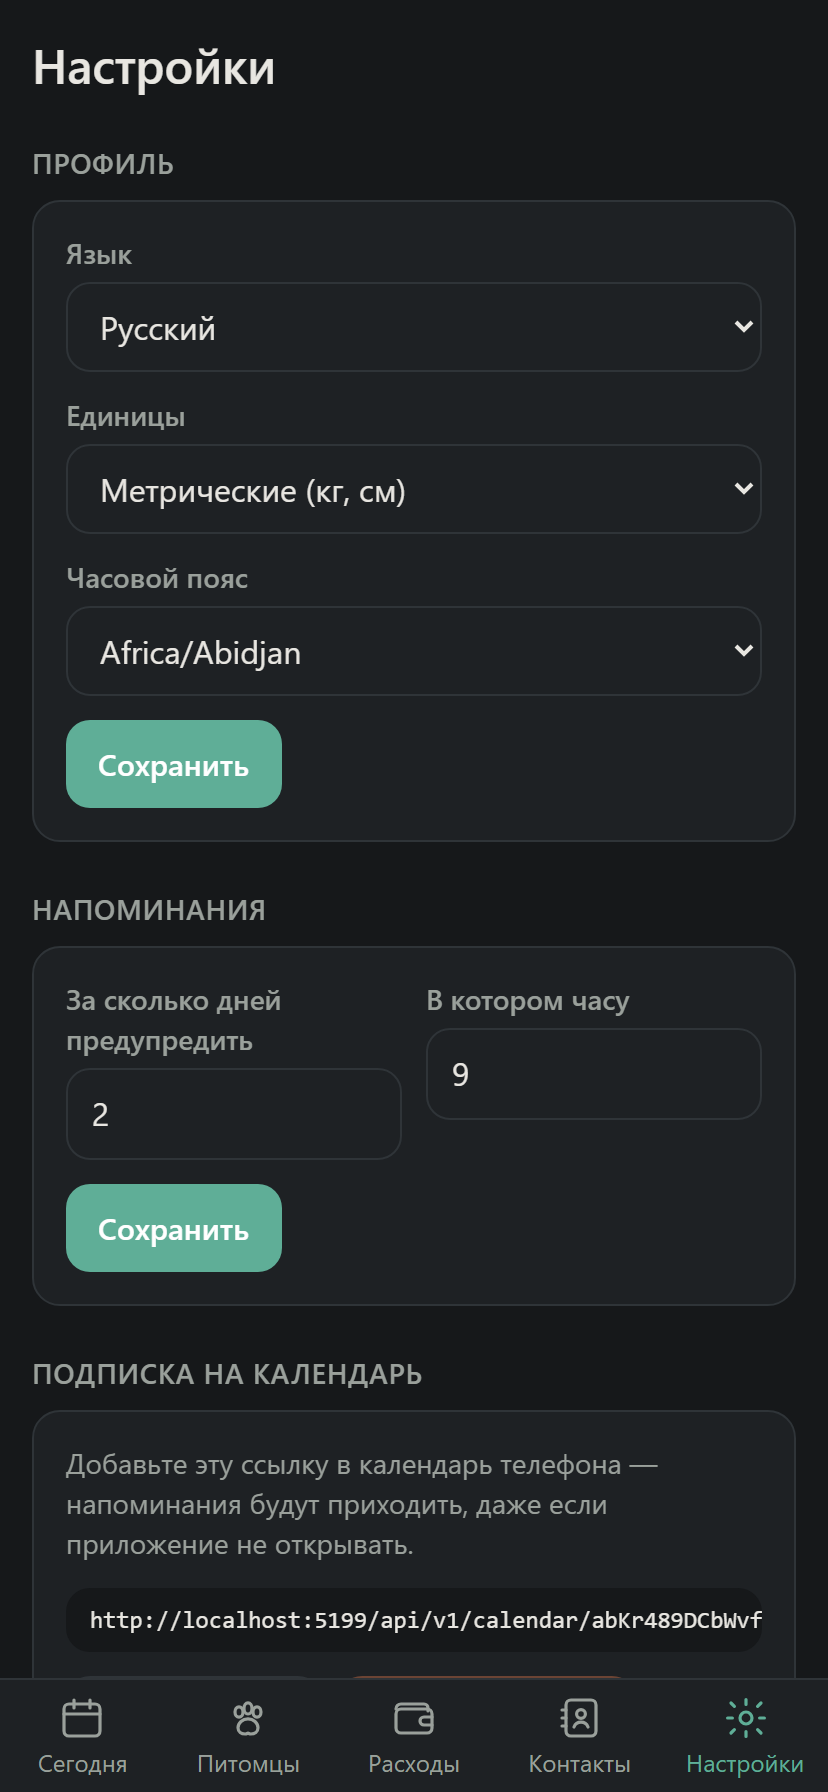
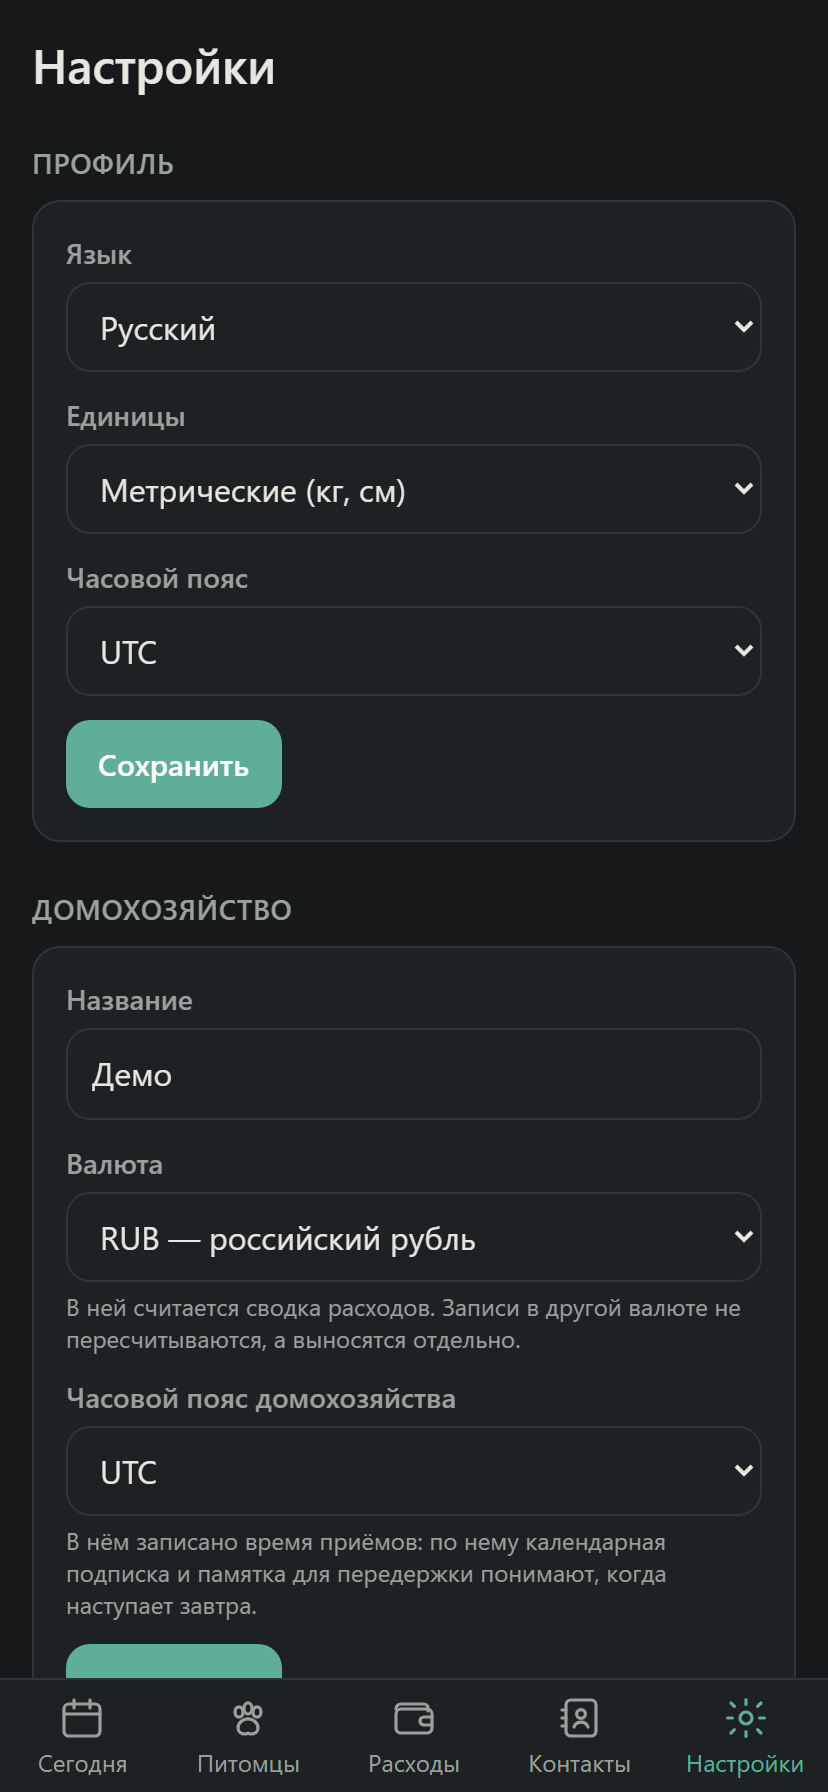
Add currency and household time zone to settings
The household already had a currency and a time zone; neither was settable.
The currency governs the expense summary, the time zone governs what the
calendar feed and the sitter link call tomorrow — both were silently stuck
on their defaults.

Changing the currency does not reinterpret earlier entries: money is never
converted, so roubles recorded before the change stay roubles and are shown
apart from the total.

Also fixes a picker that displayed a value it did not hold.
Intl.supportedValuesOf('timeZone') omits UTC, which is where every household
starts, so both zone selects showed Africa/Abidjan and saving the form would
have moved the household to Cote d'Ivoire.

And the capture tool's default output now follows COLOR_SCHEME: a dark run
without a path argument used to overwrite the light screenshots.

Claude-Session: https://claude.ai/code/session_01UPbQU9fPhnrhdN3YF2XwQb

diff --git a/apps/web/src/pages/SettingsPage.tsx b/apps/web/src/pages/SettingsPage.tsx
@@ -1,10 +1,10 @@
 import { startRegistration } from '@simplewebauthn/browser';
-import { type ReactNode, useState } from 'react';
+import { type ReactNode, useMemo, useState } from 'react';
 import { api } from '../api/client';
 import type { Passkey } from '../api/types';
 import { useAction, useResource } from '../app/hooks';
 import { useSession, useUser } from '../app/session';
-import { formatDate } from '../lib/format';
+import { formatDate, optionsIncluding } from '../lib/format';
 import { LOCALES, type MessageKey } from '../lib/i18n';
 import { NotificationsSection } from './NotificationsSection';
 import { SitterLinksSection } from './SitterLinksSection';
@@ -16,6 +16,9 @@ interface HouseholdDetail {
     name: string;
     reminderLeadDays: number;
     reminderHour: number;
+    timeZone: string;
+    currency: string;
+    foodLeadDays: number;
     calendarUrl: string;
   };
   role: string;
@@ -37,6 +40,7 @@ export function SettingsPage(): ReactNode {
 
       {detail.data && (
         <>
+          <HouseholdCard detail={detail.data} onSaved={detail.reload} />
           <RemindersCard detail={detail.data} onSaved={detail.reload} />
           <CalendarCard detail={detail.data} onRotated={detail.reload} />
           <MembersCard detail={detail.data} onChanged={detail.reload} />
@@ -95,8 +99,9 @@ function ProfileCard({ onSaved }: { onSaved: () => Promise<void> }): ReactNode {
     await onSaved();
   });
 
-  // The zones the browser knows, so nothing unresolvable can be chosen.
-  const zones = Intl.supportedValuesOf('timeZone');
+  // The zones the browser knows, plus whatever is stored: the list omits UTC, and a select
+  // that cannot show its own value is a select that changes it.
+  const zones = optionsIncluding(Intl.supportedValuesOf('timeZone'), user.timeZone);
 
   return (
     <section>
@@ -140,6 +145,89 @@ function ProfileCard({ onSaved }: { onSaved: () => Promise<void> }): ReactNode {
   );
 }
 
+/**
+ * What belongs to the household rather than to the person reading the screen.
+ *
+ * The time zone here is not the same setting as the one on the profile above, and the
+ * difference matters: the profile's decides what "today" means on this screen, while this
+ * one is what the calendar feed and the sitter notes are read in — neither of which has
+ * anybody signed in to ask.
+ */
+function HouseholdCard({
+  detail,
+  onSaved,
+}: {
+  detail: HouseholdDetail;
+  onSaved: () => void;
+}): ReactNode {
+  const { t, locale } = useSession();
+  const [name, setName] = useState(detail.household.name);
+  const [currency, setCurrency] = useState(detail.household.currency);
+  const [timeZone, setTimeZone] = useState(detail.household.timeZone);
+
+  const save = useAction(async () => {
+    await api.patch(`/households/${detail.household.id}`, { name, currency, timeZone });
+    onSaved();
+  });
+
+  // Every code the browser knows, named in the reader's language, rather than a short list
+  // that would be wrong for whoever lives somewhere I did not think of.
+  const currencies = useMemo(() => {
+    const names = new Intl.DisplayNames([locale === 'ru' ? 'ru' : 'en'], { type: 'currency' });
+    return optionsIncluding(Intl.supportedValuesOf('currency'), detail.household.currency)
+      .map((code) => ({ code, label: `${code} — ${names.of(code) ?? code}` }))
+      .sort((a, b) => a.label.localeCompare(b.label));
+  }, [locale, detail.household.currency]);
+
+  const zones = useMemo(
+    () => optionsIncluding(Intl.supportedValuesOf('timeZone'), detail.household.timeZone),
+    [detail.household.timeZone],
+  );
+
+  return (
+    <section>
+      <SectionTitle>{t('settings.household')}</SectionTitle>
+      <Card className="space-y-3">
+        <Field label={t('settings.householdName')}>
+          <Input value={name} onChange={(e) => setName(e.target.value)} />
+        </Field>
+
+        <Field
+          label={t('settings.currency')}
+          hint={t('settings.currencyHint')}
+          error={save.error?.fieldError('currency')}
+        >
+          <Select value={currency} onChange={(e) => setCurrency(e.target.value)}>
+            {currencies.map((entry) => (
+              <option key={entry.code} value={entry.code}>
+                {entry.label}
+              </option>
+            ))}
+          </Select>
+        </Field>
+
+        <Field
+          label={t('settings.householdTimeZone')}
+          hint={t('settings.householdTimeZoneHint')}
+          error={save.error?.fieldError('timeZone')}
+        >
+          <Select value={timeZone} onChange={(e) => setTimeZone(e.target.value)}>
+            {zones.map((zone) => (
+              <option key={zone} value={zone}>
+                {zone}
+              </option>
+            ))}
+          </Select>
+        </Field>
+
+        <Button disabled={save.pending} onClick={() => void save.run()}>
+          {t('action.save')}
+        </Button>
+      </Card>
+    </section>
+  );
+}
+
 function RemindersCard({
   detail,
   onSaved,
@@ -150,9 +238,10 @@ function RemindersCard({
   const { t } = useSession();
   const [leadDays, setLeadDays] = useState(detail.household.reminderLeadDays);
   const [hour, setHour] = useState(detail.household.reminderHour);
+  const [foodLeadDays, setFoodLeadDays] = useState(detail.household.foodLeadDays);
 
   const save = useAction(async () => {
-    await api.patch(`/households/${detail.household.id}`, { leadDays, hour });
+    await api.patch(`/households/${detail.household.id}`, { leadDays, hour, foodLeadDays });
     onSaved();
   });
 
@@ -180,6 +269,16 @@ function RemindersCard({
             />
           </Field>
         </div>
+
+        <Field label={t('settings.foodLeadDays')}>
+          <Input
+            type="number"
+            min={0}
+            max={60}
+            value={foodLeadDays}
+            onChange={(e) => setFoodLeadDays(Number(e.target.value))}
+          />
+        </Field>
 
         <Button disabled={save.pending} onClick={() => void save.run()}>
           {t('action.save')}

diff --git a/apps/api/tests/money.test.ts b/apps/api/tests/money.test.ts
@@ -182,6 +182,46 @@ describe('expenses', () => {
     expect(one.json().summary.total).toBe(500);
   });
 
+  it('totals in the household currency once it is changed', async () => {
+    await asUser(test, cookie, {
+      method: 'PATCH',
+      url: `/api/v1/households/${householdId}`,
+      payload: { currency: 'eur' },
+    });
+
+    // An expense entered without naming a currency takes the household's.
+    await post('/expenses', { category: 'food', amount: 40, spentOn: '2026-05-01' });
+
+    const response = await get('/expenses?from=2026-01-01&to=2026-12-31');
+    expect(response.json().summary.currency).toBe('EUR');
+    expect(response.json().summary.total).toBe(40);
+    expect(response.json().summary.excluded).toEqual([]);
+  });
+
+  it('sets aside what was entered before the currency changed', async () => {
+    await post('/expenses', { category: 'food', amount: 1000, spentOn: '2026-05-01' });
+    await asUser(test, cookie, {
+      method: 'PATCH',
+      url: `/api/v1/households/${householdId}`,
+      payload: { currency: 'EUR' },
+    });
+
+    const response = await get('/expenses?from=2026-01-01&to=2026-12-31');
+    // Nothing is silently reinterpreted: the old roubles are still roubles.
+    expect(response.json().summary.total).toBe(0);
+    expect(response.json().summary.excluded).toHaveLength(1);
+    expect(response.json().summary.excluded[0].currency).toBe('RUB');
+  });
+
+  it('refuses something that is not a currency code', async () => {
+    const response = await asUser(test, cookie, {
+      method: 'PATCH',
+      url: `/api/v1/households/${householdId}`,
+      payload: { currency: 'roubles' },
+    });
+    expect(response.statusCode).toBe(422);
+  });
+
   it('keeps another household out of the total', async () => {
     const stranger = await signUp(test, { email: 'stranger@example.com' });
     await asUser(test, stranger.cookie, {

diff --git a/apps/web/src/lib/i18n.ts b/apps/web/src/lib/i18n.ts
@@ -379,6 +379,13 @@ const ru = {
   'settings.timeZone': 'Часовой пояс',
   'settings.language': 'Язык',
   'settings.household': 'Домохозяйство',
+  'settings.householdName': 'Название',
+  'settings.currency': 'Валюта',
+  'settings.currencyHint':
+    'В ней считается сводка расходов. Записи в другой валюте не пересчитываются, а выносятся отдельно.',
+  'settings.householdTimeZone': 'Часовой пояс домохозяйства',
+  'settings.householdTimeZoneHint':
+    'В нём записано время приёмов: по нему календарная подписка и памятка для передержки понимают, когда наступает завтра.',
   'settings.members': 'Кто имеет доступ',
   'settings.addMember': 'Добавить по почте',
   'settings.role.owner': 'Владелец',
@@ -787,6 +794,13 @@ const en: Record<MessageKey, string> = {
   'settings.timeZone': 'Time zone',
   'settings.language': 'Language',
   'settings.household': 'Household',
+  'settings.householdName': 'Name',
+  'settings.currency': 'Currency',
+  'settings.currencyHint':
+    'The expense summary totals in it. Anything recorded in another currency is set aside rather than converted.',
+  'settings.householdTimeZone': 'Household time zone',
+  'settings.householdTimeZoneHint':
+    'Appointment times are written in it, and the calendar feed and the sitter notes use it to decide when tomorrow starts.',
   'settings.members': 'Who has access',
   'settings.addMember': 'Add by email',
   'settings.role.owner': 'Owner',

diff --git a/apps/web/tests/format.test.ts b/apps/web/tests/format.test.ts
@@ -2,6 +2,7 @@ import { describe, expect, it } from 'vitest';
 import type { Age } from '@pet-care-tracker/core';
 import {
   documentUrgency,
+  optionsIncluding,
   formatAge,
   formatMeasurement,
   formatRelativeDays,
@@ -163,6 +164,31 @@ describe('staleness and expiry', () => {
     expect(documentUrgency('2026-10-01', '2026-09-08')).toBe('expiring');
     expect(documentUrgency('2027-10-01', '2026-09-08')).toBe('fine');
     expect(documentUrgency(null, '2026-09-08')).toBeNull();
+  });
+});
+
+describe('optionsIncluding', () => {
+  it('leaves a list alone when it already holds the value', () => {
+    expect(optionsIncluding(['Europe/Berlin', 'Europe/Moscow'], 'Europe/Moscow')).toEqual([
+      'Europe/Berlin',
+      'Europe/Moscow',
+    ]);
+  });
+
+  it('adds a value the list is missing, first', () => {
+    // Intl omits UTC from its zone list, and a select bound to UTC silently displayed
+    // Africa/Abidjan — the first entry — so saving the form moved the household there.
+    expect(optionsIncluding(['Africa/Abidjan', 'Europe/Berlin'], 'UTC')).toEqual([
+      'UTC',
+      'Africa/Abidjan',
+      'Europe/Berlin',
+    ]);
+  });
+
+  it('does not mutate what it was given', () => {
+    const available = ['Europe/Berlin'];
+    optionsIncluding(available, 'UTC');
+    expect(available).toEqual(['Europe/Berlin']);
   });
 });
 

diff --git a/apps/web/src/lib/format.ts b/apps/web/src/lib/format.ts
@@ -183,3 +183,16 @@ export function documentUrgency(
 export function initials(name: string): string {
   return [...name.trim()].slice(0, 1).join('').toUpperCase() || '?';
 }
+
+/**
+ * The options for a picker, guaranteeing the stored value is among them.
+ *
+ * `Intl.supportedValuesOf('timeZone')` omits `UTC`, which is the default every household
+ * starts on — so a select bound to it matched nothing and silently displayed the first
+ * entry, Africa/Abidjan. Saving the form without touching the field would then have moved
+ * the household to Côte d'Ivoire. A picker must never show a value other than the one it
+ * holds.
+ */
+export function optionsIncluding(available: readonly string[], current: string): string[] {
+  return available.includes(current) ? [...available] : [current, ...available];
+}

diff --git a/CLAUDE.md b/CLAUDE.md
@@ -99,6 +99,11 @@ which plain `node` cannot resolve. Use the scripts, not `node src/…`.
 - **Printing is the browser's job.** The print routes render a sheet and call `window.print`;
   `?preview` suppresses the dialog. A PDF library would have to be taught to embed Cyrillic
   fonts and would get it subtly wrong.
+- **A `<select>` must contain the value it is bound to.** `Intl.supportedValuesOf('timeZone')`
+  omits `UTC`, which is what every household starts on, so the control displayed its first
+  entry — Africa/Abidjan — and saving the form without touching the field would have moved
+  the household there. `optionsIncluding` in `apps/web/src/lib/format.ts` is the guard;
+  use it for anything filled from an `Intl` list.
 - **Storage is raw, presentation converts.** Weights are stored in kilograms and lengths in
   centimetres; kg/lb and cm/in are a display concern in `packages/core` formatters. Storing
   a converted value breaks every past reading.
